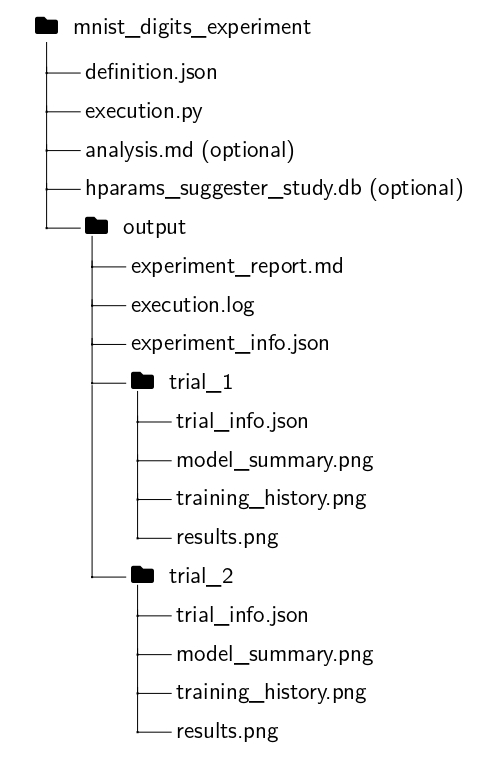
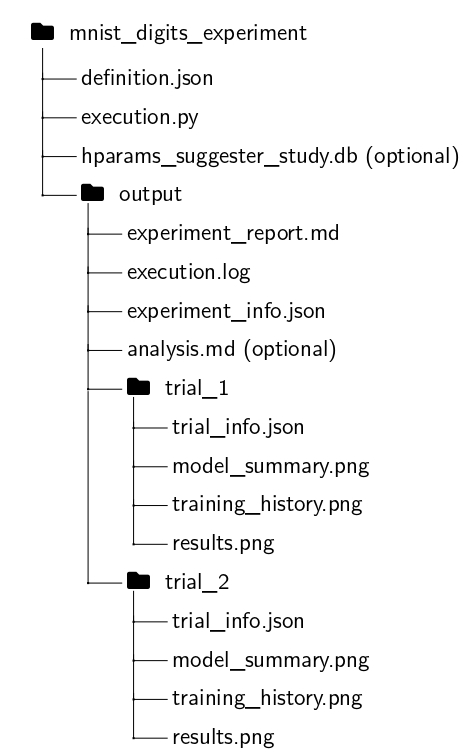
Minor documentation fixes

Changed region(s): [[0.0603, 0.0, 0.9957, 1.0]]

diff --git a/docs/source/recipes.rst b/docs/source/recipes.rst
@@ -34,7 +34,7 @@ The *experiment definition* category contains assets specific to each experiment
             "name": "MNIST Digits Experiment",
             "description": "A neural network is trained with different hyperparameters to classify MNIST digits.",
             "directory": "demo/mnist_digits_experiment",
-            "sort_metric" "accuracy"
+            "sort_metric": "accuracy"
         },
         "trial_definitions": [
             {
@@ -56,7 +56,7 @@ The *experiment definition* category contains assets specific to each experiment
         ]
     }
 
-To load the trials, use the ``load_experiment_definition()`` function. This function reads the experiment metadata and trial configurations from a JSON file. The function signature is as follows:
+To load the trials, use the ``load_experiment_definition()`` function. This function reads the experiment metadata and trial configurations from the JSON file. The function signature is as follows:
 
 .. function:: load_experiment_definition(definition_json)
 
